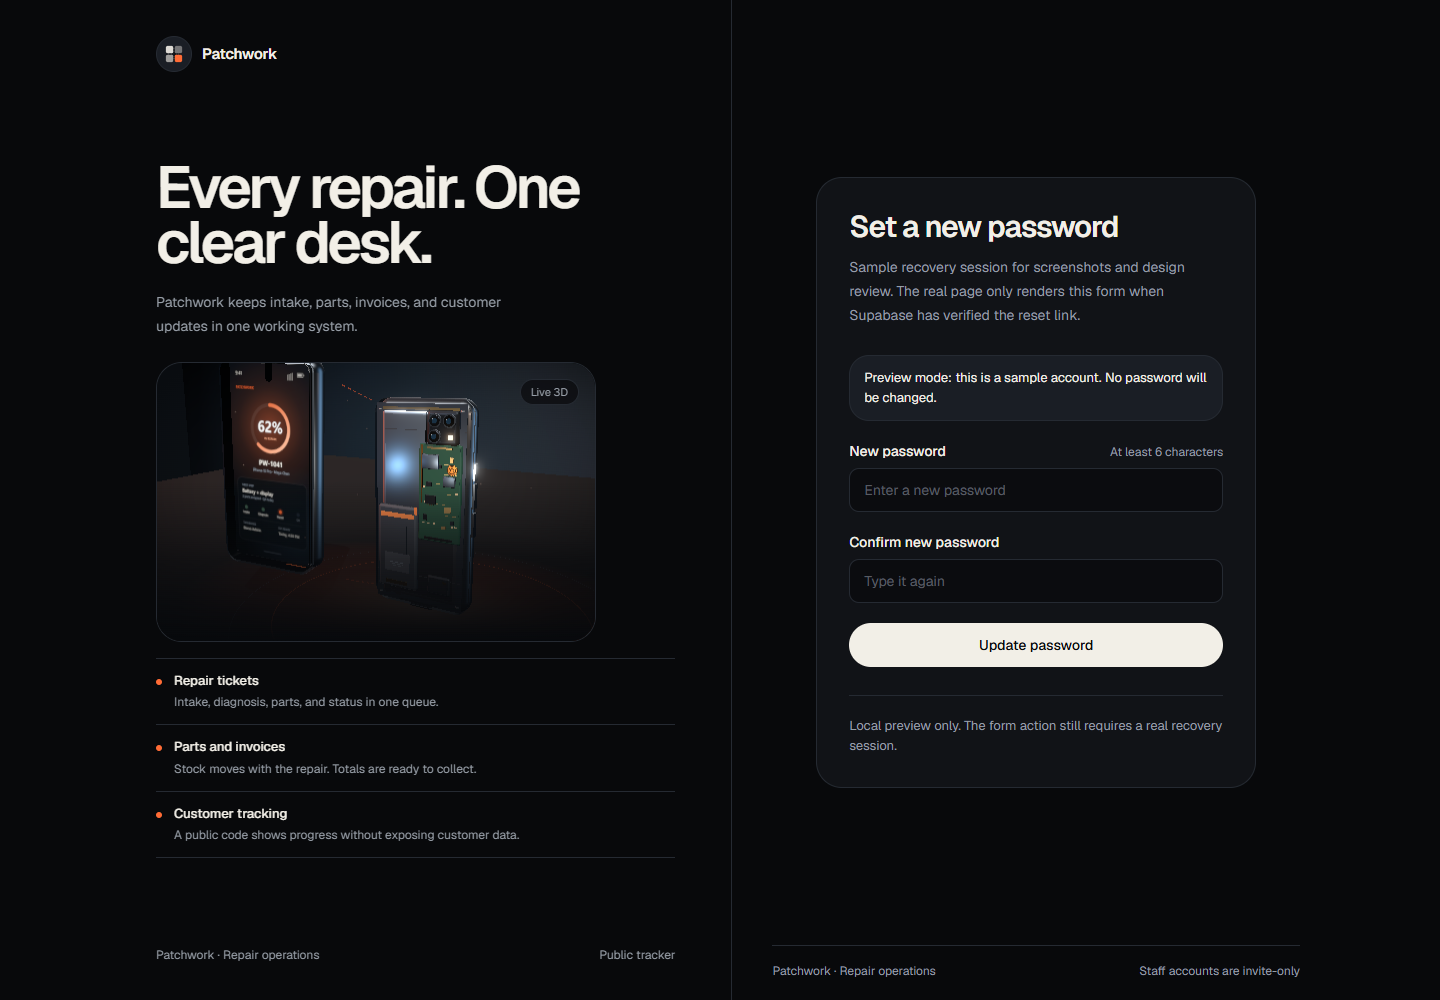
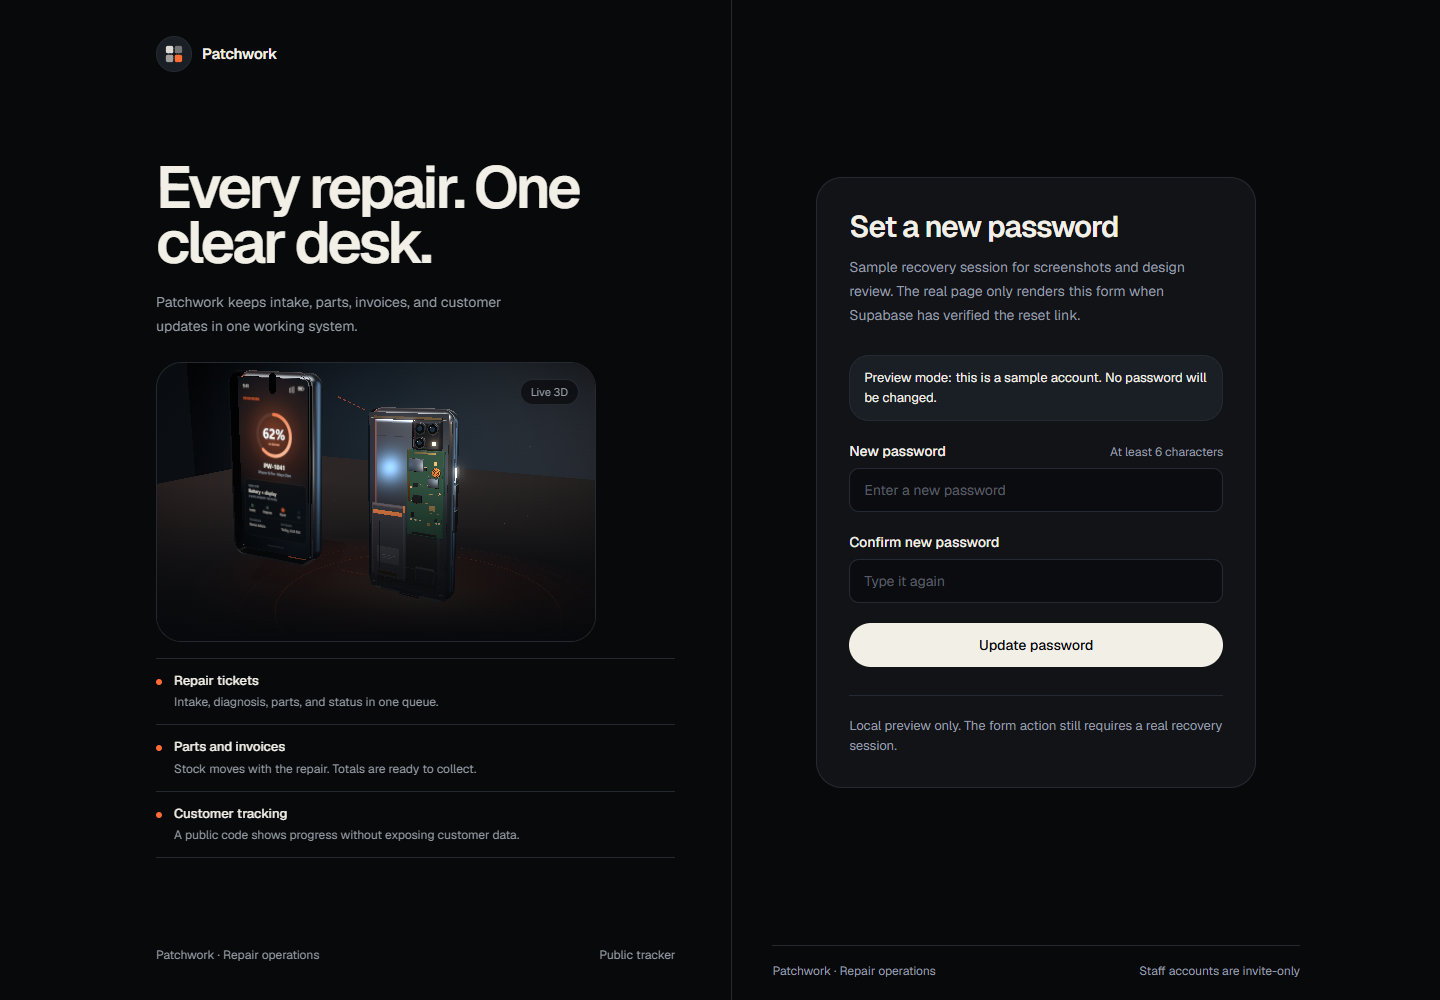
fix: keep the bench canvas full-size in absolute containers

Changed region(s): [[0.1562, 0.372, 0.3438, 0.558]]

diff --git a/components/patchwork/repair-scene.tsx b/components/patchwork/repair-scene.tsx
@@ -950,10 +950,10 @@ function CameraRig({ compact }: { compact: boolean }) {
     const narrow = aspect < 1.15;
     const fov = compact ? 30 : 28;
     const halfTan = Math.tan((fov * Math.PI) / 360);
-    const fitHeight = (compact ? 5.9 : narrow ? 6.2 : 6.4) / (2 * halfTan);
-    const fitWidth = (compact ? 5.9 : narrow ? 5.9 : 8.2) / (2 * halfTan * aspect);
+    const fitHeight = (compact ? 6.5 : narrow ? 6.2 : 6.4) / (2 * halfTan);
+    const fitWidth = (compact ? 6.6 : narrow ? 5.9 : 8.2) / (2 * halfTan * aspect);
     const distance = Math.max(fitHeight, fitWidth) * 1.05;
-    const target = new THREE.Vector3(compact || narrow ? -1.15 : 0, narrow ? 0.42 : 0.2, 0);
+    const target = new THREE.Vector3(compact || narrow ? -0.95 : 0, narrow ? 0.42 : 0.2, 0);
     const direction = new THREE.Vector3(0.48, 0.22, 0.85).normalize();
     const position = target.clone().addScaledVector(direction, distance);
 

diff --git a/components/patchwork/repair-bench.tsx b/components/patchwork/repair-bench.tsx
@@ -57,11 +57,13 @@ export function RepairBench({
     getServerReducedMotion,
   );
   const [active, setActive] = useState<LayerId>("screen");
+  const positioned = className?.includes("absolute") || className?.includes("fixed");
 
   return (
     <div
       className={cn(
-        "relative overflow-hidden rounded-2xl border border-line bg-[#0B0D10]",
+        "overflow-hidden rounded-2xl border border-line bg-[#0B0D10]",
+        positioned ? null : "relative",
         className,
       )}
     >
